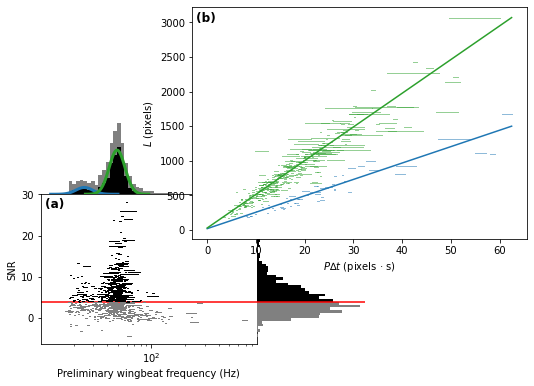
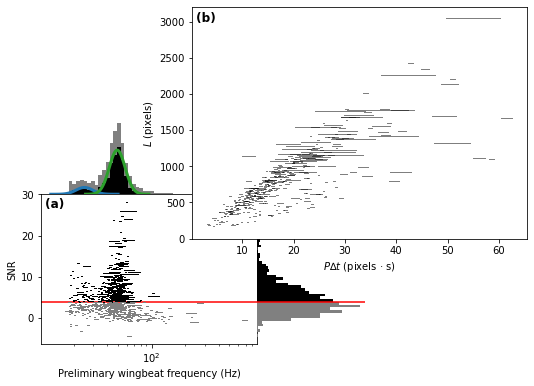
Version 2.2

diff --git a/camfi/_version.py b/camfi/_version.py
@@ -1,1 +1,1 @@
-__version__ = "2.1.5"
+__version__ = "2.2.0"

diff --git a/docs/usage/notebooks/wingbeat_analysis.rst b/docs/usage/notebooks/wingbeat_analysis.rst
@@ -8,14 +8,16 @@ First, load the required libraries.
 
 .. code:: ipython3
 
+    from math import sqrt
     from pathlib import Path
     
     from matplotlib import pyplot as plt
     import numpy as np
+    from scipy import stats
     
     from camfi.projectconfig import CamfiConfig
     from camfi.plotting.matplotlib import MatplotlibWingbeatFrequencyPlotter
-    from camfi.wingbeat import BcesEM, GMM
+    from camfi.wingbeat import BcesEM, GMM, WeightedGaussian
 
 To run ``via_project.load_all_exif_metadata`` and
 ``wingbeat_extractor.extract_wingbeats()`` below, you will first need to
@@ -505,6 +507,9 @@ red line.
 .. image:: wingbeat_analysis_files/wingbeat_analysis_15_0.png
 
 
+With zero bodylength assumption
+-------------------------------
+
 Based on the above plots, we now wish to select a number of target
 classes. This will be used for fitting a Gaussian mixture-model to the
 preliminary winbeat frequencies (which assume zero bodylength), and for
@@ -540,18 +545,97 @@ Gaussian mixture-model.
     mean=1.6913164856912772 std=0.07106824294152196 weight=0.8597422733759577
 
 
-In Hz, the mean preliminary wingbeat frequencies for the respective
-classes are
+To get mean and standard deviation in Hz, we need to re-parametrise.
 
 .. code:: ipython3
 
-    print("\n".join(f"{10 ** r.mean} Hz" for r in gmm_results))
+    for weighted_gaussian in gmm_results:
+        mean_hz, std_hz = weighted_gaussian.get_natural_params_from_log(10.0)
+        print(f"μ = {mean_hz} Hz  σ = {std_hz}  weight = {weighted_gaussian.weight}")
 
 
 .. parsed-literal::
 
-    24.93850468145082 Hz
-    49.126574840025675 Hz
+    μ = 25.102738892471677 Hz  σ = 2.8856693084544567  weight = 0.14025772662404282
+    μ = 49.41306955900124 Hz  σ = 5.34427937939624  weight = 0.8597422733759577
+
+
+The estimate of standard deviation includes the measurement error
+associated with exposure time ambiguity. Here we will attempt to make an
+estimate of the underlying wingbeat frequency standard deviation.
+
+First, we need to check that measurement error is not correlated with
+log10(wingbeat frequency)
+
+.. code:: ipython3
+
+    log10_means = (np.log10(above_thresh.wb_freq_down) + np.log10(above_thresh.wb_freq_up)) / 2
+    log10_errors = log10_means - np.log10(above_thresh.wb_freq_down)
+    
+    densities = np.stack([stats.norm.pdf(log10_means, loc=r.mean, scale=r.std) for r in gmm_results])
+    gmm_classification_prediction = densities.argmax(axis=0)
+
+.. code:: ipython3
+
+    fig = plt.figure()
+    ax = fig.add_subplot(
+        111,
+        xlabel="log10(wingbeat frequency)",
+        ylabel="Direction ambiguity measurement error",
+    )
+    ax.scatter(
+        log10_means,
+        log10_errors,
+        marker="x",
+        c=np.array(["tab:blue", "tab:green"])[gmm_classification_prediction],
+    )
+    
+    for i in range(n_classes):
+        class_mask = gmm_classification_prediction == i
+        r, p = stats.pearsonr(log10_means[class_mask], log10_errors[class_mask])
+        print(f"class {i}:  r = {r}  p(|R| >= |r|) = {p}")
+
+
+.. parsed-literal::
+
+    class 0:  r = 0.1120666137470634  p(|R| >= |r|) = 0.3042812058830173
+    class 1:  r = 0.10711341709033767  p(|R| >= |r|) = 0.017240476736024066
+
+
+
+.. image:: wingbeat_analysis_files/wingbeat_analysis_25_1.png
+
+
+It appears that measurement error is not correlated to measurement
+value, so we can proceed using the relation
+
+.. math::  Var(X + Y) = Var(X) + Var(Y) 
+
+.. code:: ipython3
+
+    log10_wingbeat_gaussians = []
+    
+    for i in range(n_classes):
+        class_mask = gmm_classification_prediction == i
+        error_var = np.var(log10_errors[class_mask], ddof=1)
+        log10_wingbeat_var = gmm_results[i].std ** 2 - error_var
+        log10_wingbeat_gaussians.append(
+            WeightedGaussian(
+                mean=gmm_results[i].mean,
+                std=np.sqrt(log10_wingbeat_var),
+                weight=gmm_results[i].weight,
+            )
+        )
+        
+    for weighted_gaussian in log10_wingbeat_gaussians:
+        mean_hz, std_hz = weighted_gaussian.get_natural_params_from_log(10.0)
+        print(f"μ = {mean_hz} Hz  σ = {std_hz}  weight = {weighted_gaussian.weight}")
+
+
+.. parsed-literal::
+
+    μ = 25.101781030581876 Hz  σ = 2.8771046444652533  weight = 0.14025772662404282
+    μ = 49.403384640368735 Hz  σ = 5.25188370862169  weight = 0.8597422733759577
 
 
 We can set the ``gmm_results`` parameter to plot the figure with the
@@ -568,8 +652,11 @@ Gaussian mixture model shown.
 
 
 
-.. image:: wingbeat_analysis_files/wingbeat_analysis_23_0.png
+.. image:: wingbeat_analysis_files/wingbeat_analysis_29_0.png
 
+
+Without zero bodylength assumption
+----------------------------------
 
 Now we use an EM algorithm to classify the data using BCES regressions
 of :math:`L` vs. :math:`P \Delta t`.
@@ -595,10 +682,11 @@ This can do this re-mapping with some indexing trickery using
 
     inverse_index = np.argsort(np.argsort(bces_results))
     class_mask = inverse_index[bces_em.class_mask]
+    class_n = np.bincount(class_mask)
     bces_results = sorted(bces_results)
     
     print("Classifications:")
-    print("\n".join(str(n) for n in np.bincount(class_mask)))
+    print("\n".join(str(n) for n in class_n))
     print("Multiple BCES linear regression parameters:")
     print("\n".join(str(b) for b in bces_results))
 
@@ -611,6 +699,59 @@ This can do this re-mapping with some indexing trickery using
     Multiple BCES linear regression parameters:
     gradient=23.684945219639722 y_intercept=21.164640791557133 gradient_stderr=1.8436575083709323 y_intercept_stderr=30.356672106881156 cov_xy=-54.37303718722761
     gradient=48.648490469072115 y_intercept=30.410128999818426 gradient_stderr=1.4469572965456388 y_intercept_stderr=18.927271182452444 cov_xy=-26.431054889875146
+
+
+Testing zero bodylength assumption
+~~~~~~~~~~~~~~~~~~~~~~~~~~~~~~~~~~
+
+We can test the zero body-length assumption by calculating the
+t-statistic of the intercept of the linear regression
+
+.. math::  t = \frac{\hat{\beta_0} - 0}{SE(\hat{\beta_0})} 
+
+where :math:`\hat{\beta_0}` is the estimate of the intercept. We then
+can test the following hypotheses:
+
+.. math::  H_0 : \quad \hat{\beta_0} = 0 , 
+
+.. math::  H_1 : \quad \hat{\beta_0} > 0 . 
+
+We perform a one-sided test, since negative bodylength does not make
+physical sense (so there is no need for a two-sided test). Note that
+this is also more conservative, since a higher-powered test is more
+likely to reject :math:`H_0`, which would force us to reject the zero
+body-length assumption.
+
+.. code:: ipython3
+
+    t_values = np.array([estimates.y_intercept / estimates.y_intercept_stderr for estimates in bces_results])
+    dfs = class_n - 2  # Two estimators per linear regression
+    p_values = stats.t.sf(t_values, dfs)
+    print(t_values)
+    print(p_values)
+
+
+.. parsed-literal::
+
+    [0.69719898 1.60668322]
+    [0.24394638 0.05437571]
+
+
+We see that for both regressions, we have insufficient evidence to
+reject the zero body-length assumption (:math:`p > 0.05`). It is
+therefore reasonable to use the estimates given by the GMM approach.
+
+.. code:: ipython3
+
+    for weighted_gaussian in log10_wingbeat_gaussians:
+        mean_hz, std_hz = weighted_gaussian.get_natural_params_from_log(10.0)
+        print(f"μ = {mean_hz} Hz  σ = {std_hz}  weight = {weighted_gaussian.weight}")
+
+
+.. parsed-literal::
+
+    μ = 25.101781030581876 Hz  σ = 2.8771046444652533  weight = 0.14025772662404282
+    μ = 49.403384640368735 Hz  σ = 5.25188370862169  weight = 0.8597422733759577
 
 
 Finally, we reproduce the figure from the publication, which includes
@@ -630,7 +771,7 @@ both the GMM and EM classification
 
 
 
-.. image:: wingbeat_analysis_files/wingbeat_analysis_29_0.png
+.. image:: wingbeat_analysis_files/wingbeat_analysis_40_0.png
 
 
 ``fig`` is just a matplotlib ``Figure`` instance, so we can save it
